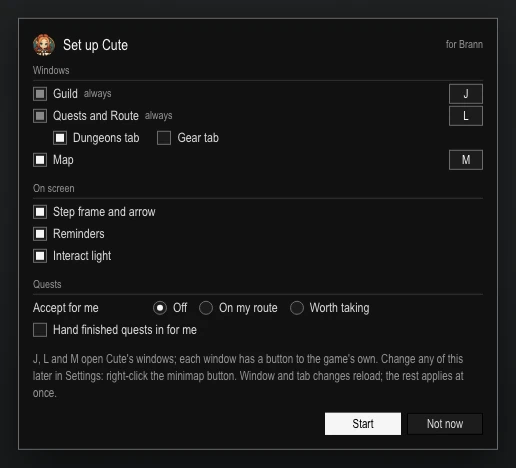
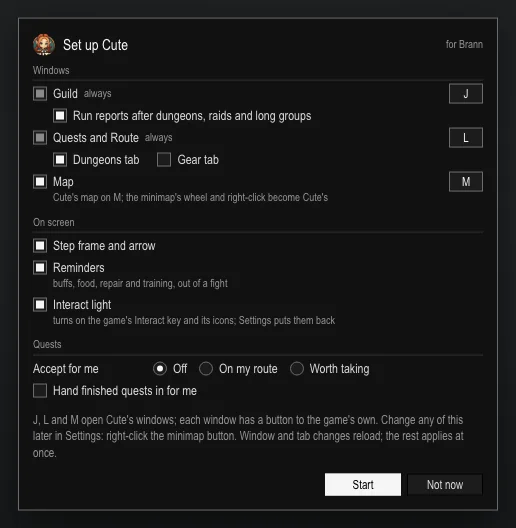
cute page: the setup card's picture as the merged card draws it, Runs under Guild and a line under Map, Reminders and Interact light
The pages round cut the card from 0.9.0's Setup.lua; fix-cute-ui's card asks about Runs under Guild and says under Map,
Reminders and Interact light what each changes. The same mockup with those rows (Setup.lua's words and its dim 11 px
lines), 516 x 528, 18 KB; its alt text and the README's note say so.

diff --git a/addons/cute/index.html b/addons/cute/index.html
@@ -215,7 +215,7 @@ footer.cu-foot { display: block; max-width: none; margin: 3.5rem 0 0; padding: 0
       <li>Log in: a card asks which windows you want (the guild on <code>J</code>, your quests and route on <code>L</code>, Cute's map on <code>M</code>; Dungeons and Gear are tabs you switch on or off), binds the keys and reloads once. Right-click the elf on the minimap to jump anywhere.</li>
       <li>With the uploader: double-click <code>Install.bat</code> in its <code>QuestBank Uploader</code> folder. It sends foreverrank.com what you found in the world from <code>Cute_Quest.lua</code>, never <code>Cute.lua</code> or a name, and brings back what other players found. It never puts the QuestBank addon in.</li>
     </ol>
-    <figure class="cu-card"><a href="img/card.webp"><img src="img/card.webp" width="516" height="468" alt="The card at the first login: the Guild and the Quests and Route windows always on, the Dungeons and Gear tabs and the Map to tick, each window's key (J, L, M), what shows on screen, and whether quests are accepted and handed in for you" loading="lazy"></a></figure>
+    <figure class="cu-card"><a href="img/card.webp"><img src="img/card.webp" width="516" height="528" alt="The card at the first login: the Guild and the Quests and Route windows always on, run reports, the Dungeons and Gear tabs and the Map to tick, each window's key (J, L, M), what shows on screen with a line on what each changes, and whether quests are accepted and handed in for you" loading="lazy"></a></figure>
     <p class="cu-small">Already run QuestBank? <code>L</code> works with it, but Cute's map (<code>M</code>), Reminders and Move frames need QuestBank switched off for this character.</p>
   </div>
 </section>

diff --git a/tools/cute/README.md b/tools/cute/README.md
@@ -1544,8 +1544,8 @@ panels and in the window (UI.lua's EDGE), and the Download button is dark text o
 a light button through the whole cascade. It ends `problems: 0` and `OK`, or lists the problems and exits 1.
 `--online` also fetches the external links. The page is `addons/cute/index.html`; `#l` or `#m` on its URL opens that
 window's picture. The pictures (`img/j.webp`, `l.webp`, `m.webp`, `card.webp`, under 160 KB each, which the build
-checks) are cut from the agreed mockup `research/qbrender/cute-windows.html`, J's tabs and Race columns and the card's
-Reminders row set to 0.9.0's.
+checks) are cut from the agreed mockup `research/qbrender/cute-windows.html`, J's tabs and Race columns set to 0.9.0's
+and the card's rows to `Setup.lua`'s (Runs under Guild, Reminders, the dim line under Map, Reminders and Interact light).
 
 ## The seed
 
